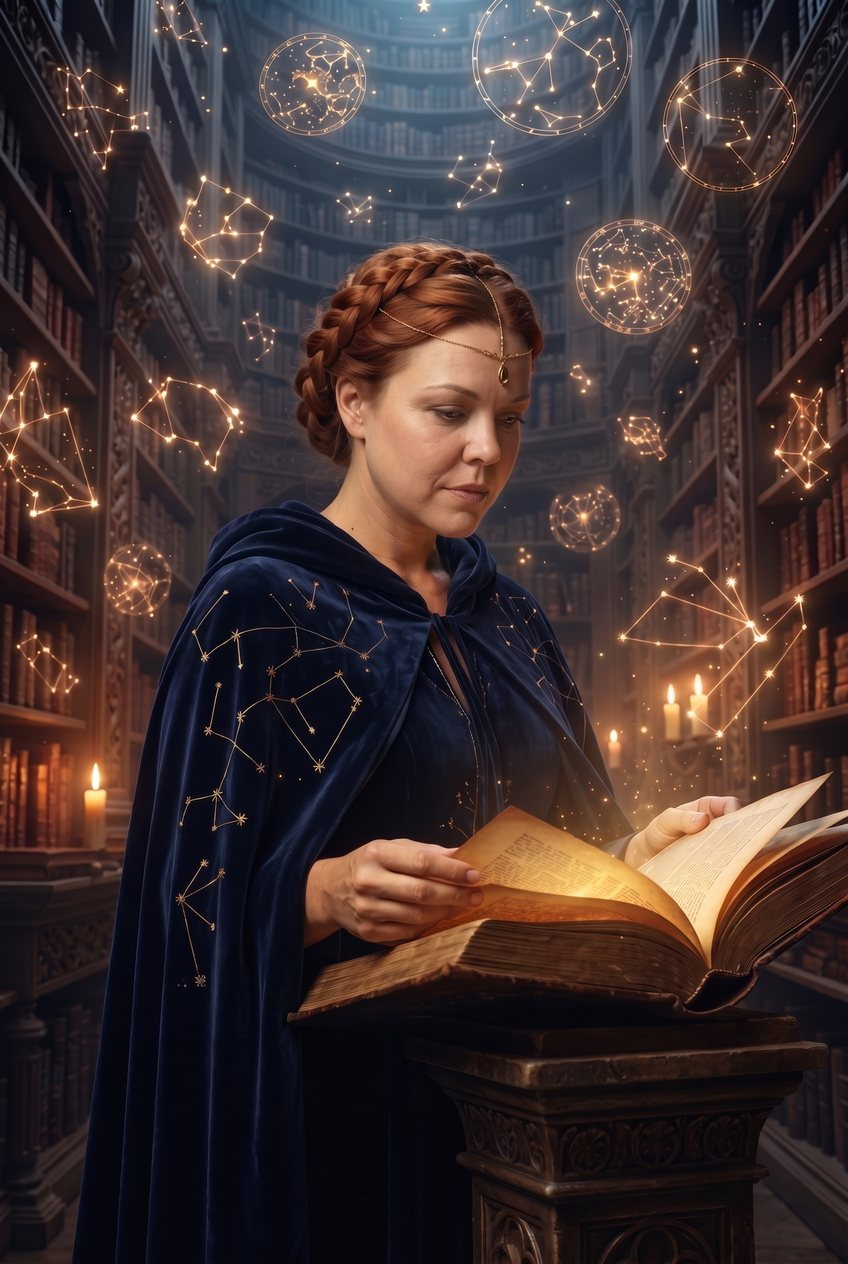
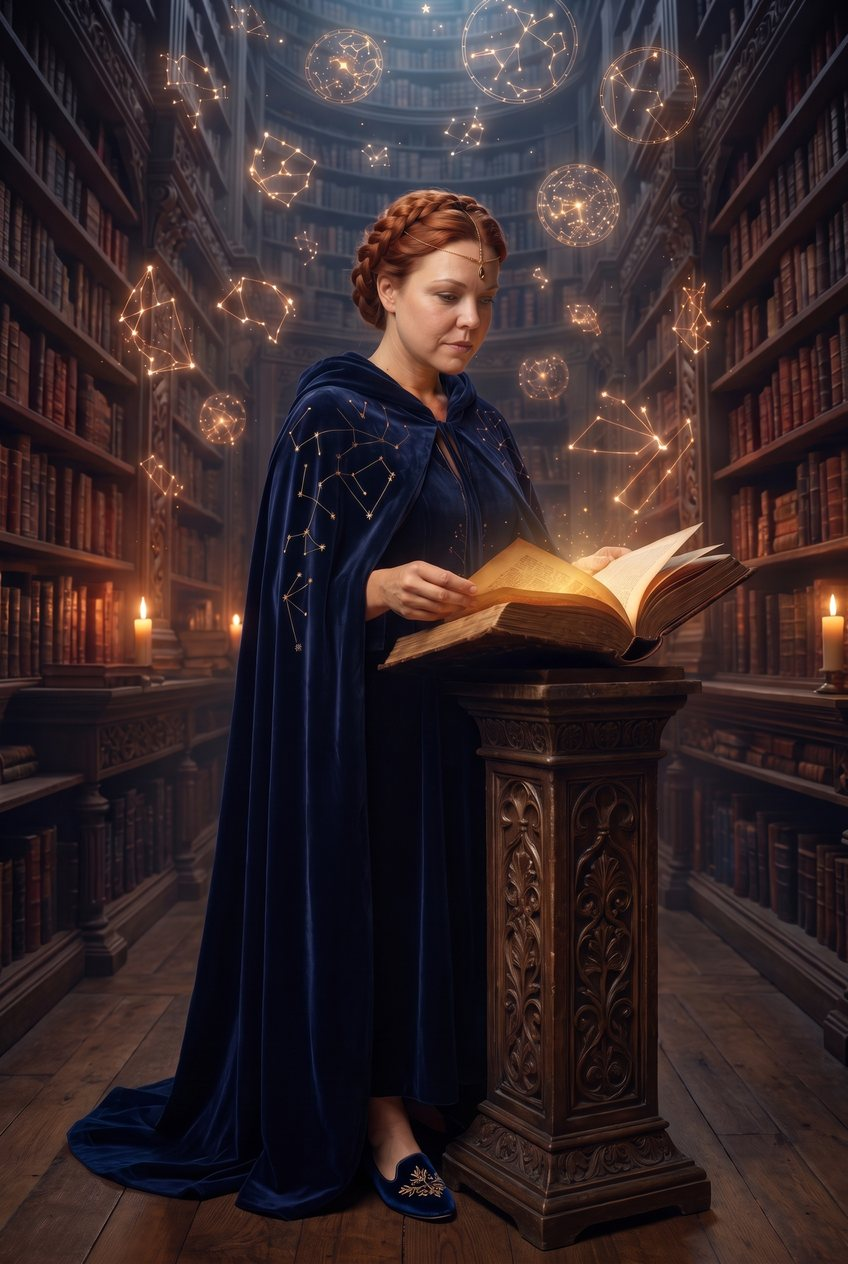
Fantasy, женская серия: кадры 2–4 в полный рост, как первый

diff --git a/js/gallery-data.js b/js/gallery-data.js
@@ -150,9 +150,9 @@ const GALLERY = [
       ],
       woman: [
         shot('woman', 'fantasy', 1, 'Fantasy-портрет: изумрудная правительница у готического трона, бархатное платье с золотой вышивкой, мантия и корона с изумрудами'),
-        shot('woman', 'fantasy', 2, 'Fantasy-портрет: лунная чародейка на мраморной террасе под полной луной, светящийся полумесяц в ладонях'),
-        shot('woman', 'fantasy', 3, 'Fantasy-портрет: северная королева среди ледяных арок, меховая накидка и корона из кристаллов, снег в воздухе'),
-        shot('woman', 'fantasy', 4, 'Fantasy-портрет: хранительница звёздной библиотеки открывает светящуюся книгу, вокруг парят карты созвездий')
+        shot('woman', 'fantasy', 2, 'Fantasy-портрет в полный рост: лунная чародейка на мраморной террасе под полной луной, светящийся полумесяц в ладонях'),
+        shot('woman', 'fantasy', 3, 'Fantasy-портрет в полный рост: северная королева под ледяной аркой, меховая накидка и корона из кристаллов, снег в воздухе'),
+        shot('woman', 'fantasy', 4, 'Fantasy-портрет в полный рост: хранительница звёздной библиотеки у пюпитра со светящейся книгой, вокруг парят карты созвездий')
       ]
     }
   }
